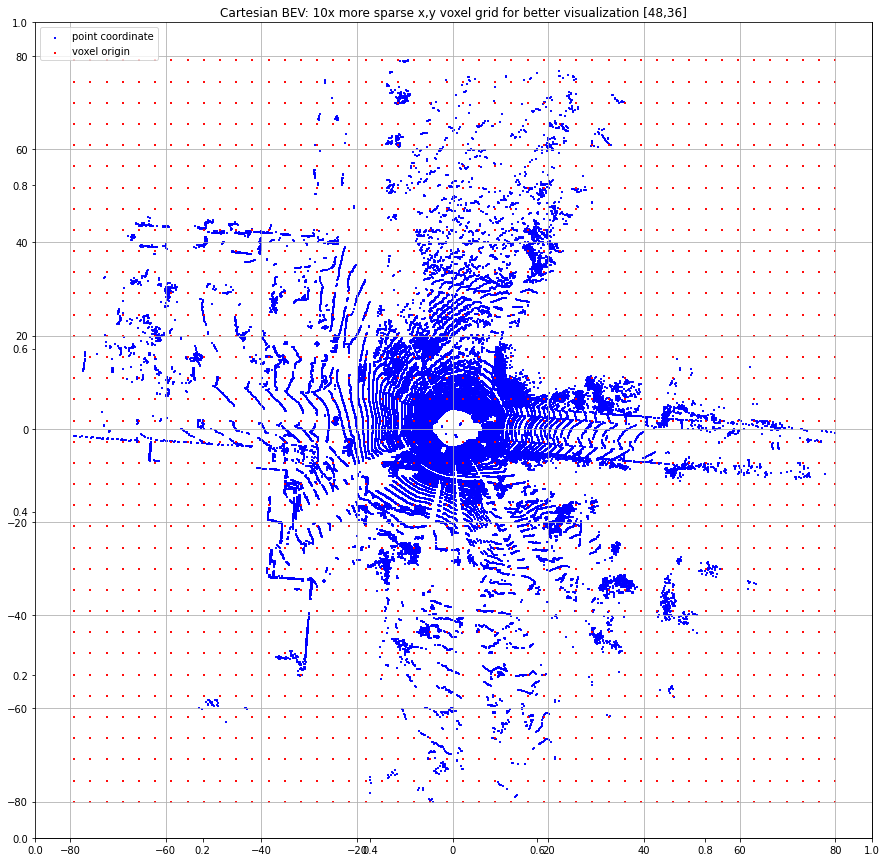
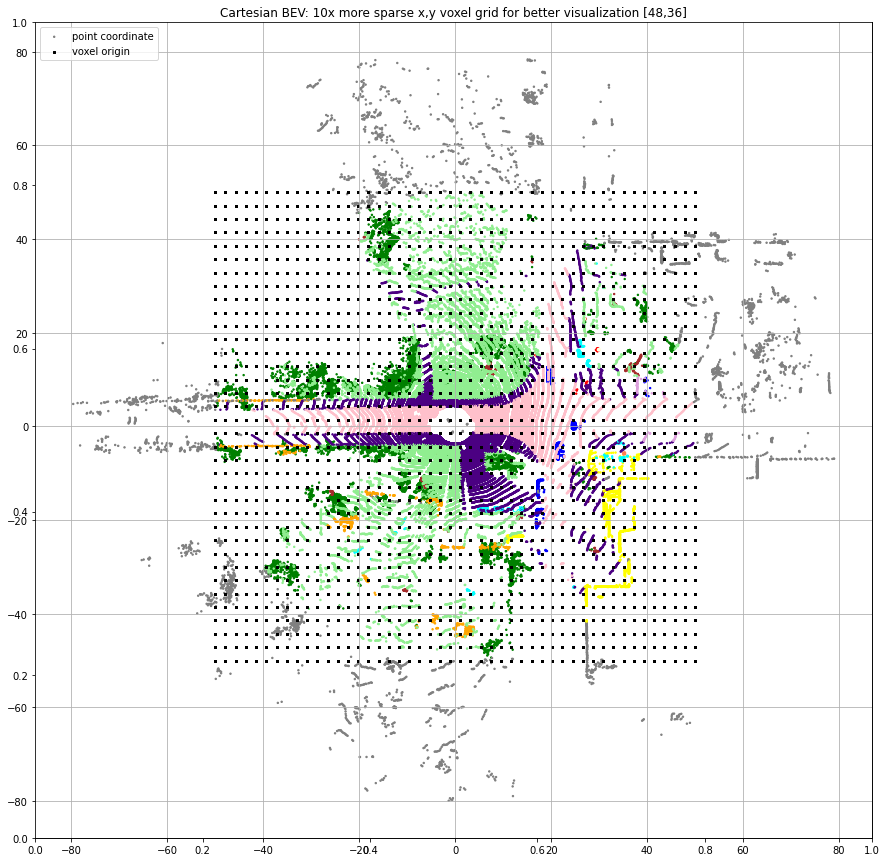
projection images

diff --git a/README.md b/README.md
@@ -93,6 +93,21 @@ python src/models/predict_model.py --config <your_config.yaml>
 
 --------
 
+## Projection examples
+
+> Note: label colors are just visualization, just similar, but not accurate to the [semantic-kitti-api](https://github.com/PRBonn/semantic-kitti-api) defined ones.
+
+<tr>
+<td> <img src="/reports/figures/cartesianBEVexample.png" alt="Drawing" style="width: 250px;"/> </td>
+<td> <img src="/reports/figures/polarBEVexample.png" alt="Drawing" style="width: 250px;"/> </td>
+</tr>
+
+<!-- ![Cartesian Projection BEV](/reports/figures/cartesianBEVexample.png) | ![Polar Projection BEV](/reports/figures/polarBEVexample.png) -->
+
+<!-- <img src="/reports/figures/cartesianBEVexample.png" width="425"/> <img src="/reports/figures/polarBEVexample.png" width="425"/>  -->
+
+
+
 ## Results on validation set
 
 > Note: *Paper* refers to the test results of the original paper from Zhang et al.
